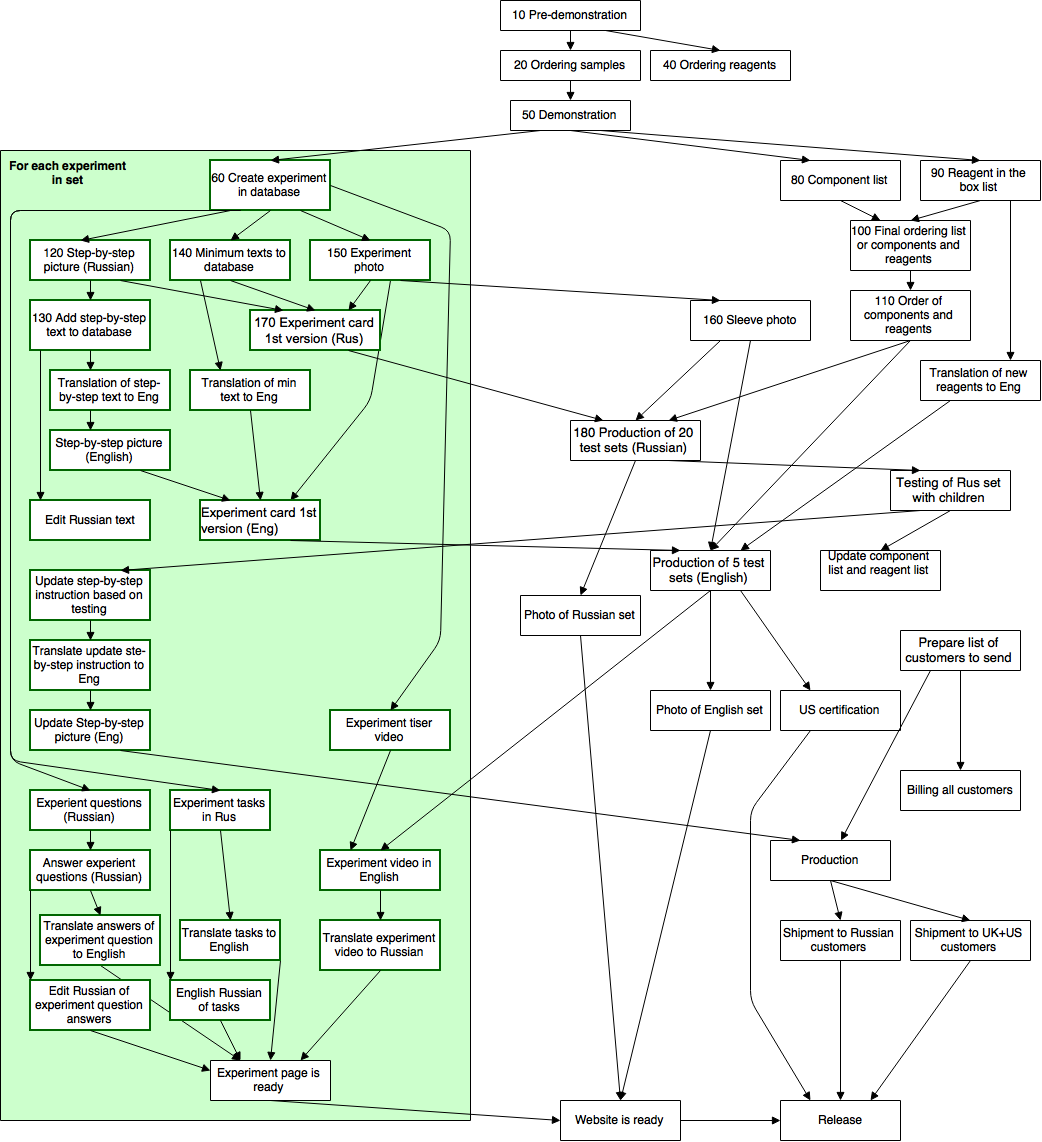
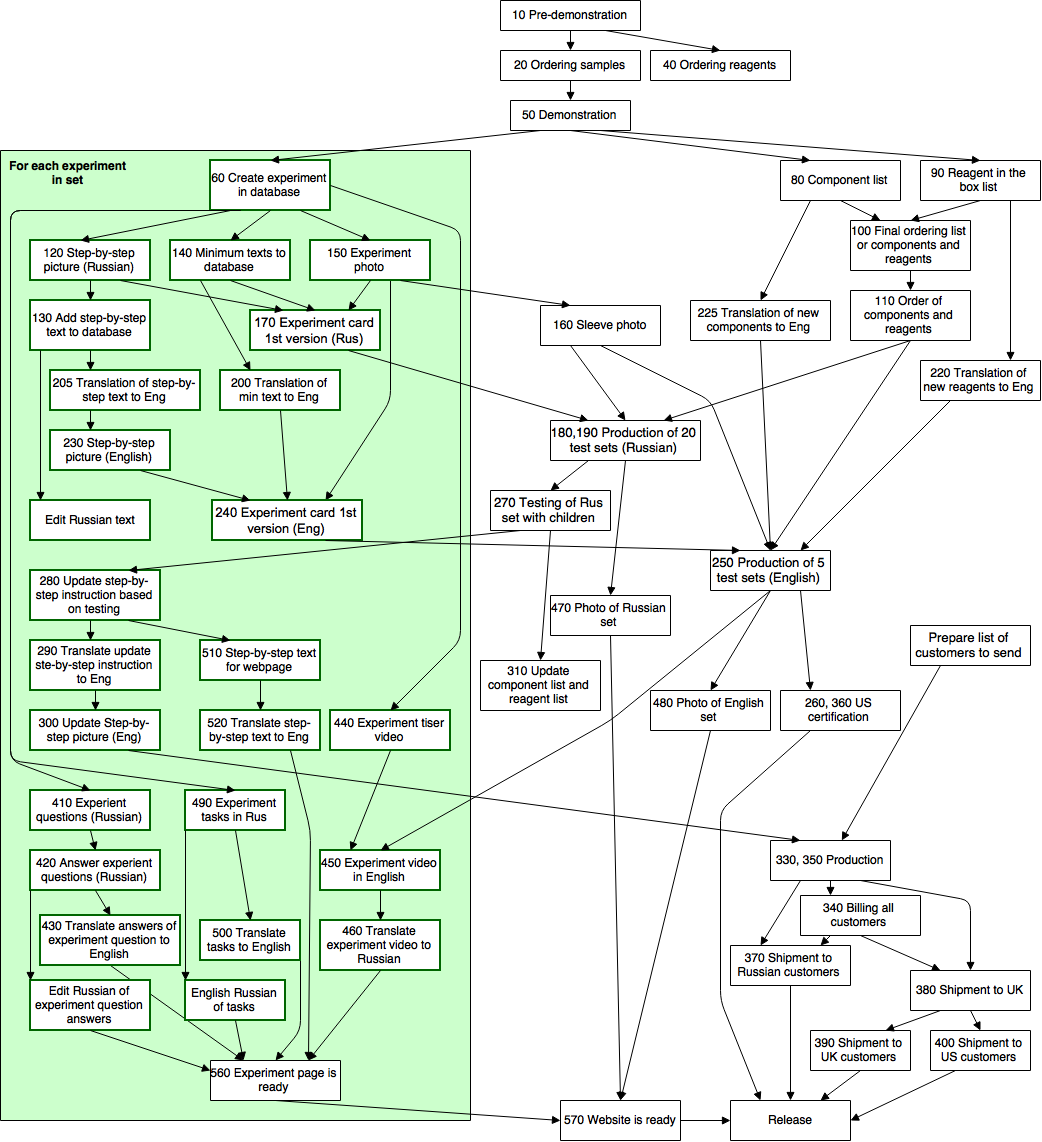
Diagram is added

diff --git a/melchemistryprocess/diagram.html b/melchemistryprocess/diagram.html
@@ -1,0 +1,371 @@
+<!DOCTYPE html>
+<html lang="en">
+<head>
+    <meta charset="utf-8">
+    <meta http-equiv="X-UA-Compatible" content="IE=edge">
+    <meta name="viewport" content="width=device-width, initial-scale=1">
+    <title>MEL Chemistry Process Diagram</title>
+    <!-- Bootstrap Core CSS -->
+    <link href="css/bootstrap.min.css" rel="stylesheet">
+    <script src="js/jquery.js"></script>
+    <script src="js/jquery.cookie.js"></script>
+    <script src="js/bootstrap.js"></script>
+
+    <!-- HTML5 Shim and Respond.js IE8 support of HTML5 elements and media queries -->
+    <!-- WARNING: Respond.js doesn't work if you view the page via file:// -->
+    <!--[if lt IE 9]>
+        <script src="https://oss.maxcdn.com/libs/html5shiv/3.7.0/html5shiv.js"></script>
+        <script src="https://oss.maxcdn.com/libs/respond.js/1.4.2/respond.min.js"></script>
+    <![endif]-->
+</head>
+
+<body style="padding-left: 30px; padding-top: 10px; padding-right: 30px;">
+
+<div class="container-fluid">
+
+<h1>MEL Chemistry process diagram</h1>
+<div style="margin-bottom: 30px">
+Set: <select id="selection_set" style="color: black; margin-right: 30px; margin-bottom: 0px; margin-top: 15px;"></select>
+Responsible: <select id="selection_responsible" style="color: black; margin-bottom: 0px; margin-top: 15px;"></select>
+</div>
+
+<canvas id="diagram_canvas" width="1042" height="1142"></canvas>
+<img id="diagram_image" src="images/processdiagram.png" width="1" height="1" alt="">
+
+<script>
+
+var tasks = [];
+var filterResponsible = "Kostya";
+var filterSet = "Kostya";
+var taskFields = ["set", "id", "dependency", "type", "experiment", "name", "description", "results", "responsible", "control", "status", "starttime", "endtime", "totaltime"];
+var firstTodoTask = null;
+
+var taskCoordinates = {
+  10: [500,   0, 640,  30],
+  20: [500,  50, 640,  80],
+  40: [650,  50, 790,  80],
+  50: [510, 100, 630, 130],
+  60: [210, 160, 330, 210],
+  80: [780, 160, 900, 200],
+  90: [920, 160,1040, 200],
+ 100: [850, 220, 970, 270],
+ 110: [850, 290, 970, 340],
+ 120: [ 30, 240, 150, 280],
+ 130: [ 30, 300, 150, 350],
+ 140: [170, 240, 290, 280],
+ 150: [310, 240, 430, 280],
+ 160: [540, 305, 660, 345],
+ 170: [250, 310, 380, 350],
+ 180: [550, 420, 700, 460],
+ 200: [220, 370, 340, 410],
+ 205: [ 50, 370, 200, 410],
+ 210: [ 30, 500, 150, 540],
+ 220: [920, 360,1040, 400],
+ 230: [ 50, 430, 170, 470],
+ 240: [210, 500, 365, 540],
+ 250: [710, 550, 830, 590],
+ 260: [780, 690, 900, 730],
+ 270: [490, 490, 610, 530],
+ 280: [ 30, 570, 160, 620],
+ 290: [ 30, 640, 160, 690],
+ 300: [ 30, 710, 160, 750],
+ 310: [480, 660, 600, 710],
+ 320: [910, 625,1030, 665],
+ 330: [770, 840, 890, 880],
+ 340: [800, 895, 920, 935],
+ 370: [730, 945, 850, 985],
+ 380: [910, 970,1030,1010],
+ 390: [810,1030, 910,1070],
+ 400: [930,1030,1030,1070],
+ 410: [ 30, 790, 150, 830],
+ 420: [ 30, 850, 160, 890],
+ 430: [ 40, 915, 180, 965],
+ 440: [330, 710, 450, 750],
+ 450: [320, 850, 440, 890],
+ 460: [320, 920, 440, 970],
+ 470: [550, 595, 670, 635],
+ 480: [650, 690, 770, 730],
+ 490: [185, 790, 285, 830],
+ 500: [200, 920, 300, 960],
+ 510: [200, 640, 320, 680],
+ 520: [200, 710, 320, 750],
+ 560: [210,1060, 340,1100],
+ 570: [560,1100, 680,1140] 
+};
+
+function parseJson(json) {
+  var tasks = [];
+  for (var i=0; i<json.feed.entry.length; i++) {
+    tasks[i] = {};
+    for (var p=0; p<taskFields.length; p++) {
+      var field = taskFields[p];
+      tasks[i][field] = json.feed.entry[i]["gsx$"+field]["$t"];
+    }
+  }
+  return tasks;
+}
+                       
+function getTaskById(id, set, experiment) {
+  var arr = [];
+  for (var i=0; i<tasks.length; i++) {
+    var task = tasks[i];
+    if (task["id"]==id && 
+        task["set"]==set && 
+        (experiment=="" || task["experiment"]=="" || task["experiment"]==experiment)
+    ) {
+      arr.push(task);
+    }
+  }
+  return arr;
+}
+
+function isTaskReadyToStart(task) {
+  var allDepReady = true;
+  for (var i=0; i<task["dependency"].length; i++) {
+    var dep = task["dependency"][i];
+    if (dep!=null) {
+      if (dep["status"]!="done") {
+        allDepReady = false;
+      }
+    }
+  }
+  return allDepReady;
+}
+
+function getTasksReleasedAfterThatIsDone(task) {
+  var arr = [];
+
+  for (var i=0; i<tasks.length; i++) {
+    var t = tasks[i];
+    if (t["status"]!="done") {
+      var dependsOnThatTask = false;
+      var dependsOnOtherNotDone = false;
+
+      for (var j=0; j<t["dependency"].length; j++) {
+        var dep = t["dependency"][j];
+        if (dep==task) {
+          dependsOnThatTask = true;
+        } else {
+          if (dep["status"]!="done") {
+            dependsOnOtherNotDone = true;
+          }
+        }
+      }
+
+      if (dependsOnThatTask && !dependsOnOtherNotDone) {
+        arr.push(t);
+      }
+    }
+  }
+
+  return arr;
+}
+
+function populateTaskData(container, task) {
+  for (var field in task) {
+    if (task.hasOwnProperty(field)) {
+      $(container).find(".field_"+field).html(task[field]);
+    }
+  }
+}
+
+function getDescriptionOfTasksBlockingThis(task) {
+  var blockedStr = "";
+  for (var j=0; j<task["dependency"].length; j++) {
+    var dep = task["dependency"][j];
+    if (dep["status"] != "done") {
+      blockedStr = blockedStr + dep["shortstring"] + "<br>";
+    }
+  }
+  return blockedStr;
+}
+
+function getExperimentList() {
+  var experiments = {}
+  for (var i=0; i<tasks.length; i++) {
+    var task = tasks[i];
+    if (task["set"]==filterSet && task["experiment"]!="") {
+      experiments[task["experiment"]] = 1;
+    }
+  }
+  var experimentList = [];
+  for (experiment in experiments) {
+    if (experiments.hasOwnProperty(experiment)) {
+      experimentList.push(experiment);
+    }
+  }
+  return experimentList;
+}
+
+function drawAllTasks() {
+  var experiments = getExperimentList();
+  console.log(experiments);
+  var canvas = document.getElementById("diagram_canvas");
+  var ctx = canvas.getContext("2d");
+
+  //Draw background diagram 
+  var img=document.getElementById("diagram_image");
+  ctx.fillStyle = "white";
+  ctx.globalAlpha = 1;
+  ctx.fillRect(0, 0, 1300, 1300);
+  ctx.drawImage(img, 0, 0);
+
+  //Draw task rects
+  for (var i=0; i<tasks.length; i++) {
+    var task = tasks[i];
+    if (task["set"]==filterSet) {
+      if (task["experiment"]=="") {
+        task["experiment_index"] = -1;
+      } else {
+        task["experiment_index"] = experiments.indexOf(task["experiment"]);
+      }
+      drawTask(ctx, task, experiments.length);
+    }
+  }
+}
+
+function addToSet(arr, s) {
+  arr[s] = 1;
+}
+
+function addSetToSelect(set, selectId, selectedElement) {
+  var select = document.getElementById(selectId);
+
+  //Adding other options
+  for (var s in set) {
+    if (set.hasOwnProperty(s)) {
+      var opt = document.createElement("option");
+      opt.value = s;
+      opt.innerHTML = s;
+      if (s==selectedElement) {
+        opt.selected = true;
+      }
+      select.appendChild(opt);
+    }
+  }
+}
+
+function fillSelections(tasks) {
+  var sets = {};
+  var responsibles = {};
+  for (var i=0; i<tasks.length; i++) {
+    addToSet(sets, tasks[i]["set"]);
+    addToSet(responsibles, tasks[i]["responsible"]);
+  }
+  addSetToSelect(sets, "selection_set", filterSet);
+  addSetToSelect(responsibles, "selection_responsible", filterResponsible);
+}
+
+function updatePageContent() {
+  drawAllTasks();
+}
+
+$("#selection_set").on("change", function() {
+  if (""+this.value=="All") {
+    filterSet = "";
+  } else {
+    filterSet = ""+this.value;
+  }
+  $.cookie("filter_set", filterSet);
+  updatePageContent();
+});
+
+$("#selection_responsible").on("change", function() {
+  if (""+this.value=="All") {
+    filterResponsible = "";
+  } else {
+    filterResponsible = ""+this.value;
+  }
+  $.cookie("filter_responsible", filterResponsible);
+  updatePageContent();
+});
+
+function getTaskShortString(task) {
+  if (task["experiment"]!="") {
+    return "#" + task["id"] + " " + task["name"] + " [" + task["experiment"] + "]" + " - " + task["responsible"];
+  } else {
+    return "#" + task["id"] + " " + task["name"] + " - " + task["responsible"];
+  }
+}
+
+function processTasks(tasks) {
+  for (var i=0; i<tasks.length; i++) {
+    var task = tasks[i];
+    processTaskDependency(task);
+    task["index"] = i+2;
+    task["shortstring"] = getTaskShortString(task);
+    task["results"] = task["results"].replace(/&/g, '&amp;').replace(/</g, '&lt;').replace(/>/g, '&gt;').replace(/"/g, '&quot;');
+  }
+}
+
+function processTaskDependency(task) {
+  var arrDepTasks = [];
+  var arrDepIds = task["dependency"].split(", ");
+  for (var j=0; j<arrDepIds.length; j++) {
+    var id = arrDepIds[j];
+    $.merge(arrDepTasks, getTaskById(id, task["set"], task["experiment"]));
+  }
+  task["dependency"] = arrDepTasks;
+}
+
+function importGSS(json) {
+  filterResponsible = $.cookie("filter_responsible");
+  filterSet = $.cookie("filter_set");
+
+  tasks = parseJson(json);
+  processTasks(tasks);
+
+  fillSelections(tasks);
+  drawAllTasks();
+}
+
+function drawTask(ctx, task, numberOfExperiments) {
+  var coordinates = taskCoordinates[task["id"]];
+  if (coordinates!=null) {
+
+    var x = coordinates[0];
+    var y = coordinates[1];
+    var width = coordinates[2]-x;
+    var height = coordinates[3]-y;
+    //Update coordinates for experiment tasks (only a fraction of rectangle is filled)
+    if (task["experiment_index"]!=-1) {
+      width = (coordinates[2]-coordinates[0])/numberOfExperiments;
+      x = coordinates[0]+width*task["experiment_index"];
+      width = width-1;
+    }
+
+    ctx.globalAlpha = 0.5;
+    if (task["status"]=="done") {
+      ctx.fillStyle = "blue";
+      ctx.fillRect(x, y, width, height);
+    } else {
+      if (task["responsible"]==filterResponsible) {
+        if (isTaskReadyToStart(task)) {
+          ctx.fillStyle = "red";
+          ctx.fillRect(x, y, width, height);
+        } else {
+          ctx.fillStyle = "green";
+          ctx.fillRect(x, y, width, height);
+        }
+      }
+    }
+    ctx.globalAlpha = 1;
+  } else {
+    console.log("Error. Coordinates for task #" + task["id"] + " not found");
+  }  
+}
+
+window.onload = function() {
+  var c = document.getElementById("diagram_canvas");
+  var ctx = c.getContext("2d");
+  drawAllTasks();
+};
+</script>
+
+
+<script src="https://spreadsheets.google.com/feeds/list/1WqwknAu_mwQfkDtP4UcGZAix2zBwqUmp3A8XX5xUto8/o7f9vto/public/values?alt=json-in-script&callback=importGSS"></script>
+
+</div> <!-- /container -->
+
+</body>
+</html>

diff --git a/melchemistryprocess/index.html b/melchemistryprocess/index.html
@@ -35,7 +35,7 @@
         </div>
         <div id="navbar" class="navbar-collapse collapse">
           <ul class="nav navbar-nav">
-            <li style="color: #E0E0E0;"><a href="images/processdiagram.png">Diagram</a></li>
+            <li style="color: #E0E0E0;"><a href="diagram.html">Diagram</a></li>
             <li style="color: #E0E0E0;">Set: <select id="selection_set" style="color: black; margin-right: 30px; margin-bottom: 0px; margin-top: 15px;"></select></li>
             <li style="color: #E0E0E0;">Responsible: <select id="selection_responsible" style="color: black; margin-bottom: 0px; margin-top: 15px;"></select></li>
           </ul>
